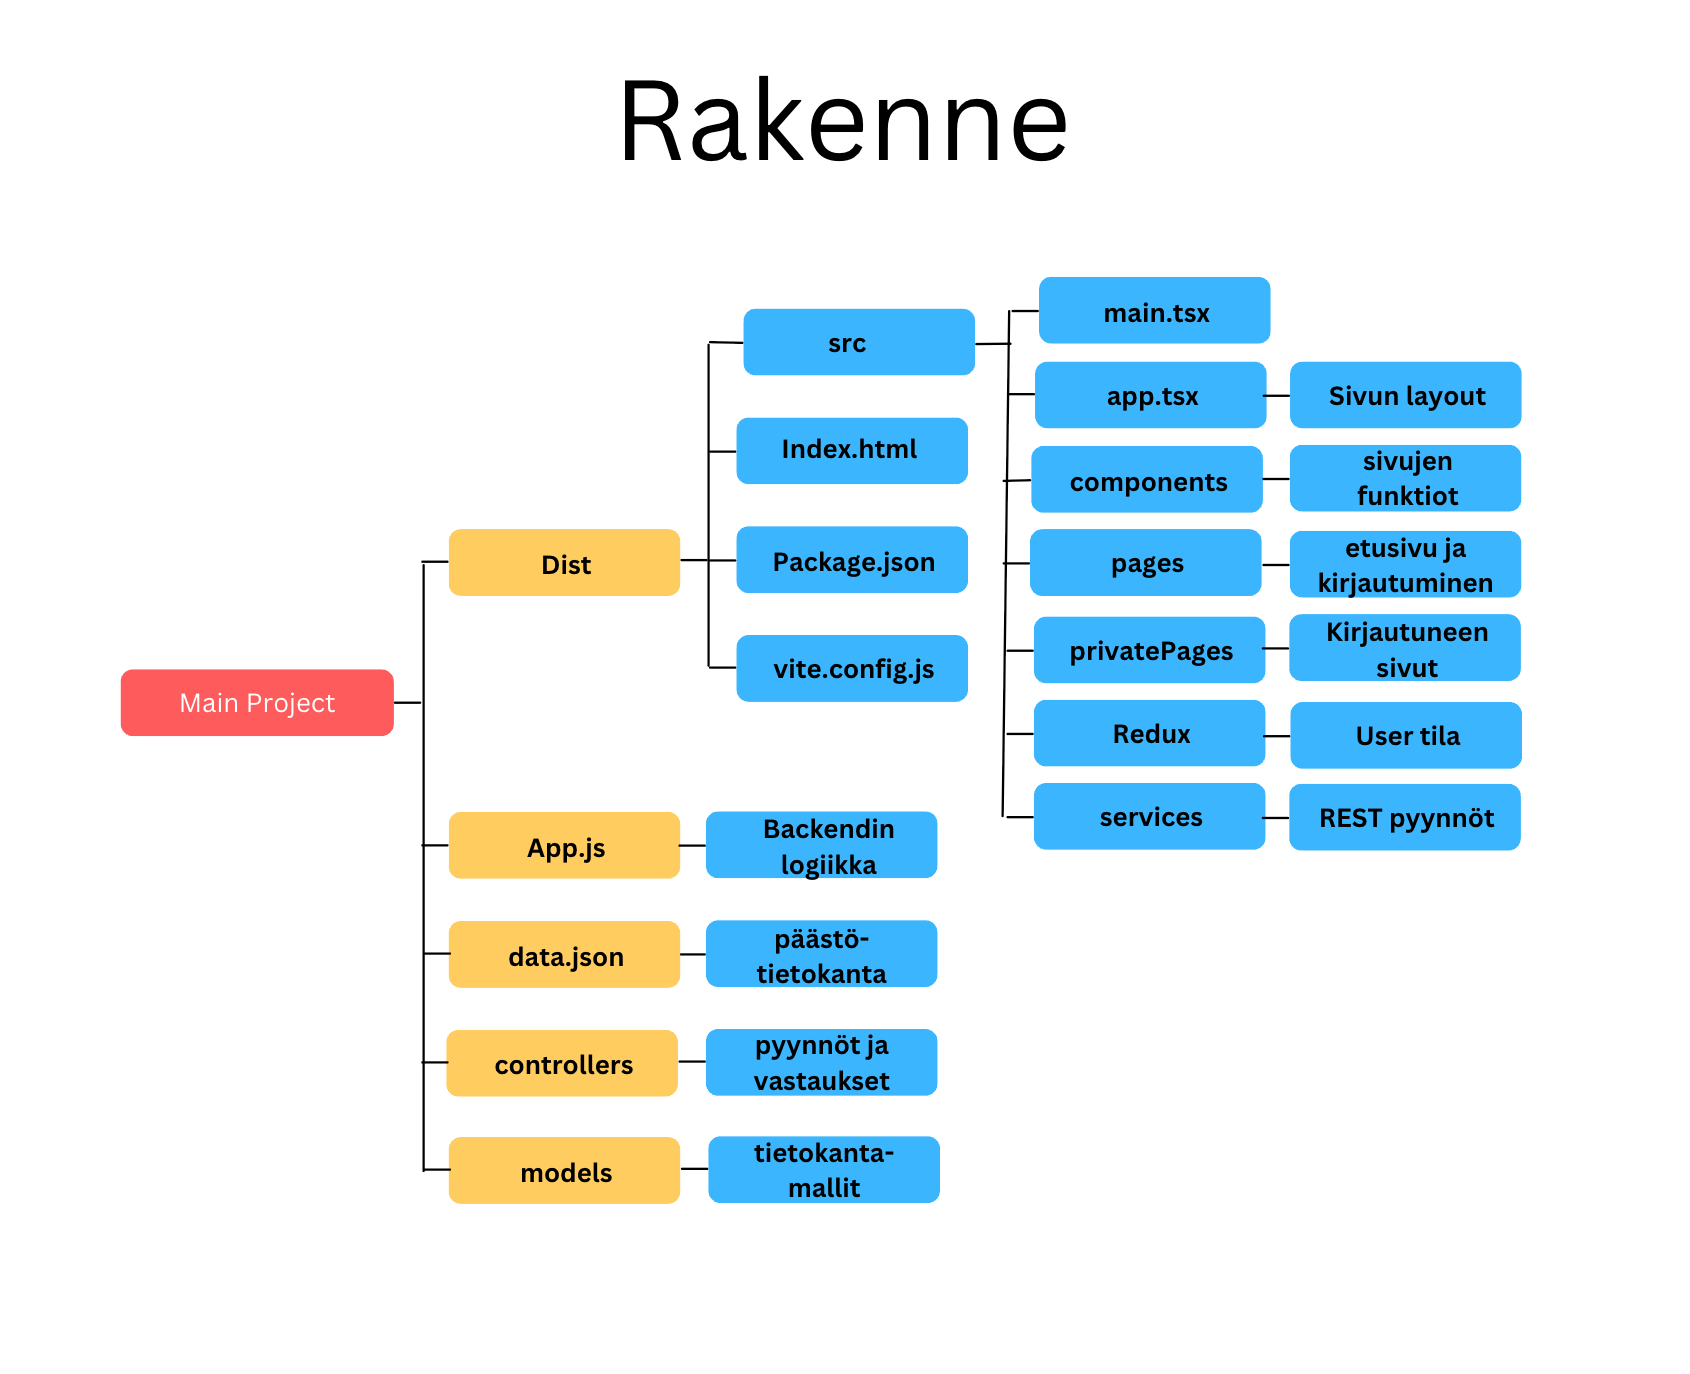
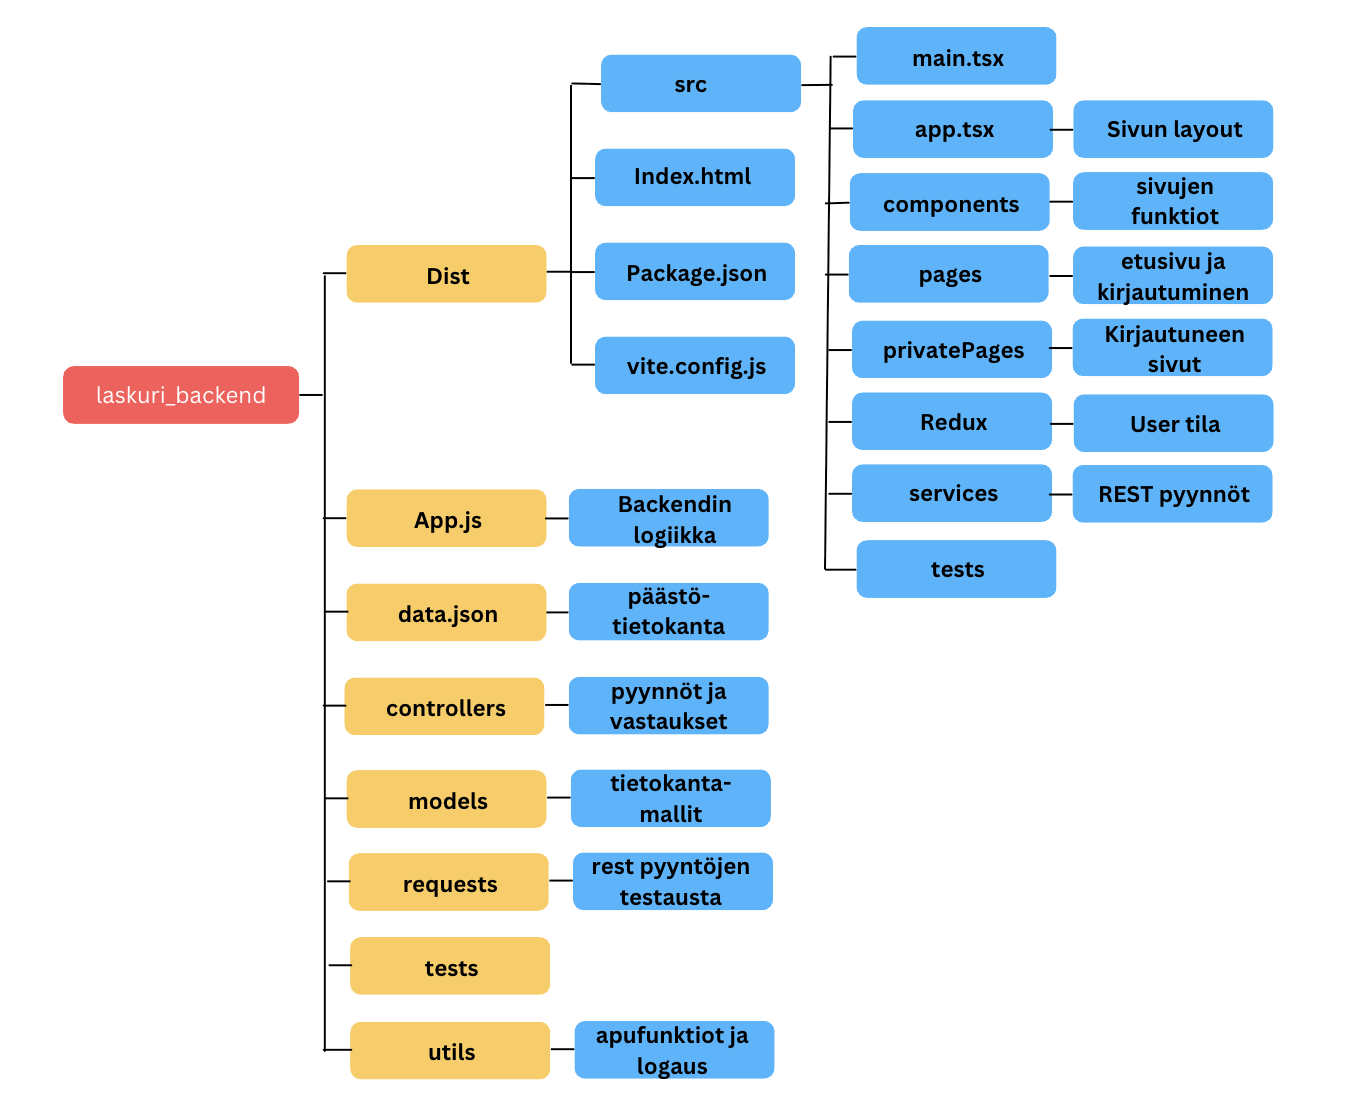
readme kuva

diff --git a/README.md b/README.md
@@ -19,7 +19,7 @@ Uuden version vieminen tuotantoon tapahtuu backendissä komennolla npm run deplo
 
 ## Tekninen kuvaus
 
-Frontend toimii react vitellä, hyödyntäen react routeria. Tilanhallinta on toteutettu suurimmaksi osaksi useState ja useEffect hookkien avulla, mutta user käyttää redux toolkittiä. Backend toimii restful periaatteella. Backend tehty node.js ja expressillä. Tietokantayhteydet mongoose kirjastolla. Tietokantana MongoDB Atlas. co2 tietokannan data tallennettu json tiedostona backendiin. 
+Frontend toimii react vitellä, hyödyntäen react routeria. Tilanhallinta on toteutettu suurimmaksi osaksi useState ja useEffect hookkien avulla, mutta user käyttää redux toolkittiä. Backend toimii restful periaatteella. Backend tehty node.js ja expressillä. Tietokantayhteydet mongoose kirjastolla. Tietokantana MongoDB Atlas. co2 tietokannan data tallennettu json tiedostona backendiin. Fronttia testattu vitestin ja react testing libraryn yhdistelmällä. Backendiä node:testillä, sekä api:ta supertest kirjastolla. 
 
 Kirjautuminen toimii token perusteisesti hyödyntäen jwt kirjastoa, tallentaen tokenin frontissa lokalstorageen tunnin aikarajalla. Salasana hashatty bcrypt kirjastolla. 
 
